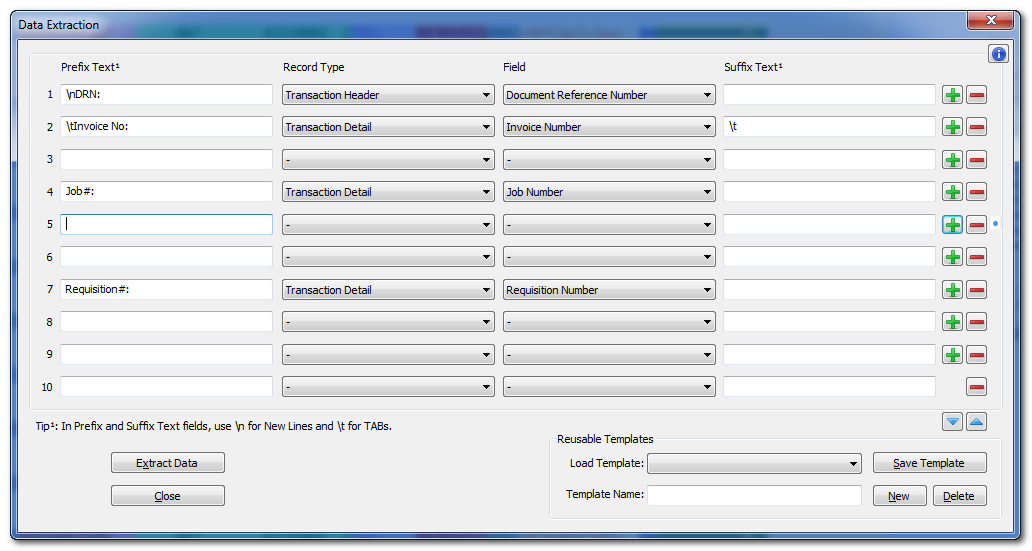
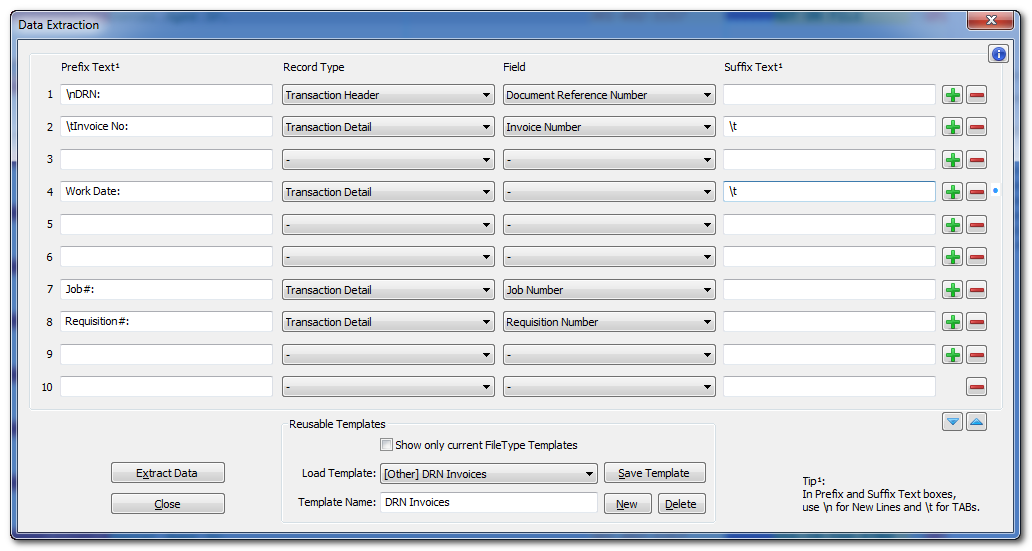
Fine tuned visualizeFile process for npp launch, doc load, doc tab switch, plugin dock tab switch, ADFT checked state

diff --git a/src/Dialogs/VisualizerPanel.cpp b/src/Dialogs/VisualizerPanel.cpp
@@ -15,7 +15,7 @@ INT_PTR CALLBACK VisualizerPanel::run_dlgProc(UINT message, WPARAM wParam, LPARA
             case IDC_VIZPANEL_FILETYPE_SELECT:
                switch HIWORD(wParam) {
                   case CBN_SELCHANGE:
-                     visualizeFile(L"", FALSE);
+                     visualizeFile(L"", FALSE, FALSE, FALSE);
                      break;
                }
                break;
@@ -55,7 +55,7 @@ INT_PTR CALLBACK VisualizerPanel::run_dlgProc(UINT message, WPARAM wParam, LPARA
                break;
 
             case IDC_VIZPANEL_AUTO_DETECT_FT:
-               setAutoDetectFileType();
+               setADFTCheckbox();
                break;
 
             case IDC_VIZPANEL_CARET_FRAMED:
@@ -86,6 +86,8 @@ INT_PTR CALLBACK VisualizerPanel::run_dlgProc(UINT message, WPARAM wParam, LPARA
 
       case WM_SHOWWINDOW:
          Utils::checkMenuItem(MI_FWVIZ_PANEL, wParam);
+         showCaretFramedState(_configIO.getCaretFramed());
+         visualizeFile(L"", TRUE, TRUE, TRUE);
          break;
 
       case WM_SIZE:
@@ -145,11 +147,10 @@ void VisualizerPanel::display(bool toShow) {
    hFieldInfo = GetDlgItem(_hSelf, IDC_VIZPANEL_FIELD_INFO);
 
    if (toShow) {
-      syncListFileTypes();
-      syncListThemes();
       CheckDlgButton(_hSelf, IDC_VIZPANEL_AUTO_DETECT_FT,
          _configIO.getAutoDetectFileType() ? BST_CHECKED : BST_UNCHECKED);
       showCaretFramedState(_configIO.getCaretFramed());
+      visualizeFile(L"", TRUE, TRUE, TRUE);
       SetFocus(hFTList);
    }
 }
@@ -243,15 +244,25 @@ void VisualizerPanel::enableThemeList(bool enable) {
    EnableWindow(GetDlgItem(_hSelf, IDC_VIZPANEL_THEME_SELECT), enable);
 }
 
-void VisualizerPanel::visualizeFile(wstring fileType, bool syncFileTypesList) {
+void VisualizerPanel::visualizeFile(wstring fileType, bool ab_cachedFT, bool autoFT, bool syncFT) {
    HWND hScintilla{ getCurrentScintilla() };
    if (!hScintilla) return;
 
-   if (fileType.length() < 1) {
-      wchar_t fDesc[MAX_PATH]{};
+   if (ab_cachedFT) {
+      getDocFileType(hScintilla, fileType);
+      _configIO.setCurrentConfigFile(fileType);
+   }
 
-      SendMessage(hFTList, WM_GETTEXT, MAX_PATH, (LPARAM)fDesc);
-      fileType = mapFileDescToType[fDesc];
+   if (fileType.length() < 1) {
+      if (autoFT) {
+         if (_configIO.getAutoDetectFileType())
+            detectFileType(hScintilla, fileType);
+      }
+      else {
+         wchar_t fDesc[MAX_PATH]{};
+         SendMessage(hFTList, WM_GETTEXT, MAX_PATH, (LPARAM)fDesc);
+         fileType = mapFileDescToType[fDesc];
+      }
    }
 
    if (fileType.length() < 2) {
@@ -261,7 +272,7 @@ void VisualizerPanel::visualizeFile(wstring fileType, bool syncFileTypesList) {
 
    clearVisualize(FALSE);
    setDocFileType(hScintilla, fileType);
-   if (syncFileTypesList) syncListFileTypes();
+   if (syncFT) syncListFileTypes();
 
    setDocTheme(hScintilla, fileType, L"");
    syncListThemes();
@@ -990,23 +1001,15 @@ void VisualizerPanel::setDocTheme(HWND hScintilla, wstring fileType, wstring the
       (LPARAM)_configIO.WideToNarrow(theme).c_str());
 }
 
-void VisualizerPanel::setAutoDetectFileType() {
+void VisualizerPanel::setADFTCheckbox() {
    bool checked{ IsDlgButtonChecked(_hSelf, IDC_VIZPANEL_AUTO_DETECT_FT) == BST_CHECKED };
 
    _configIO.setAutoDetectFileType(checked);
-   if (checked) {
-      syncListFileTypes();
-      visualizeFile(L"", FALSE);
-   }
+   if (checked) visualizeFile(L"", FALSE, TRUE, TRUE);
 }
 
 void VisualizerPanel::onBufferActivate() {
-   if (isVisible()) {
-      syncListFileTypes();
-      syncListThemes();
-      loadUsedThemes();
-      applyStyles();
-   }
+   if (isVisible()) visualizeFile(L"", TRUE, TRUE, TRUE);
 }
 
 void VisualizerPanel::setFocusOnEditor() {

diff --git a/src/Dialogs/DataExtractDialog.cpp b/src/Dialogs/DataExtractDialog.cpp
@@ -181,6 +181,7 @@ INT_PTR CALLBACK DataExtractDialog::run_dlgProc(UINT message, WPARAM wParam, LPA
 
             case IDC_DAT_EXT_TEMPLATE_CURR_ONLY:
                loadTemplatesList();
+               loadTemplate();
                break;
 
             case IDC_DAT_EXT_TEMPLATE_LIST:
@@ -539,8 +540,7 @@ int DataExtractDialog::loadTemplatesList(){
 }
 
 void DataExtractDialog::loadTemplate() {
-   bool otherFlag{};
-   wstring templateName{ getSelectedTemplate(otherFlag) };
+   wstring templateName{ getSelectedTemplate() };
    bool validTemplate{ templateName.length() > 0 };
 
    SetDlgItemText(_hSelf, IDC_DAT_EXT_TEMPLATE_NAME, templateName.c_str());
@@ -581,7 +581,7 @@ void DataExtractDialog::loadTemplate() {
    }
 }
 
-wstring DataExtractDialog::getSelectedTemplate(bool& otherFlag) {
+wstring DataExtractDialog::getSelectedTemplate() {
    bool validTemplate{ SendMessage(hTemplatesList, CB_GETCURSEL, NULL, NULL) > 0 };
    wstring templateName{};
 
@@ -592,9 +592,8 @@ wstring DataExtractDialog::getSelectedTemplate(bool& otherFlag) {
       templateName = wstring{ tName };
 
       size_t otherLen = wstring{ DATA_EXTRACT_TEMPLATE_OTHER }.length();
-      otherFlag = (templateName.substr(0, otherLen) == DATA_EXTRACT_TEMPLATE_OTHER);
 
-      if (otherFlag)
+      if (templateName.substr(0, otherLen) == DATA_EXTRACT_TEMPLATE_OTHER)
          templateName = templateName.substr(otherLen);
    }
 

diff --git a/src/Dialogs/VisualizerPanel.h b/src/Dialogs/VisualizerPanel.h
@@ -49,7 +49,7 @@ public :
    void loadListThemes();
    void onBufferActivate();
    void renderCurrentPage();
-   void visualizeFile(wstring fileType, bool syncFileTypesList);
+   void visualizeFile(wstring fileType, bool ab_cachedFT, bool autoFT, bool syncFT);
    void jumpToField(const wstring fileType, const int recordIndex, const int fieldIdx);
 
 protected :
@@ -85,7 +85,7 @@ protected :
    bool getDocTheme(PSCIFUNC_T sci_func, void* sci_ptr, wstring& theme);
    void setDocFileType(HWND hScintilla, wstring fileType);
    void setDocTheme(HWND hScintilla, wstring fileType, wstring theme);
-   void setAutoDetectFileType();
+   void setADFTCheckbox();
 
    void enableThemeList(bool enable);
    void syncListFileTypes();

diff --git a/src/SubmenuManager.cpp b/src/SubmenuManager.cpp
@@ -65,7 +65,7 @@ void SubmenuManager::loadSampleFile(WPARAM wParam, LPARAM) {
    nppMessage(NPPM_DOOPEN, NULL, (LPARAM)sampleFile);
    ShowVisualizerPanel(TRUE);
 
-   _vizPanel.visualizeFile(gSampleFiles[cmdID].file_type, TRUE);
+   _vizPanel.visualizeFile(gSampleFiles[cmdID].file_type, FALSE, FALSE, TRUE);
 }
 
 void SubmenuManager::initSamplesPopup(HMENU hPopup) {

diff --git a/src/Dialogs/DataExtractDialog.h b/src/Dialogs/DataExtractDialog.h
@@ -52,7 +52,7 @@ protected:
 
    int loadTemplatesList();
    void loadTemplate();
-   wstring getSelectedTemplate(bool& other);
+   wstring getSelectedTemplate();
    wstring getTemplateName();
    void enableSaveTemplate();
    void enableDeleteTemplate();

diff --git a/docs/data_extract_dialog.md b/docs/data_extract_dialog.md
@@ -11,8 +11,13 @@ The data extraction feature can be especially useful with mixed-record fixed-wid
 
 In the pictured sample:
 * The `\n` in the _Prefix_ of the first line is providing a blank line spacing between DRN-Invoice groups in the output (see below).
-* Line Items 3, 5 & 6 were ignored during Data Extraction processing since the _Record Type_ and _Field_ edits were blanks.
+* Line Items 3, 5 & 6 were ignored during Data Extraction processing since the _Record Type_ and _Field_ boxes were blanks.
+* Line Item 4 was ignored during Data Extraction processing since the _Field_ box was blank.
 * The `\t` in the _Suffix_ for the _Invoice Number_ line item could also have been, alternatively, specified at the start of the _Prefix_ for the _Job Number_ line item, with no difference in the resultant output data.
+* Since the _Show only current FileType Templates_ box was unchecked, all templates from all different FileTypes stored in the `Extracts.ini` configuration file were listed in the _Load Template_ dropdown. The templates from other FileTypes are listed with _[Other]_ prefix. Uncheck this box to:
+   * Load templates from closely related file types
+   * Load templates orphaned due to changes in name or order of FileTypes in the FileType metadata editor.
+* In Line Item 4, the Work Date field was specified in a template from a slightly different FileType. The position for the _Work date_ field from that other FileType was beyond the defined set of fields for the _Treasury IPAC File_ format. So the _Field_ edit for that line item did not load from the template.
 
 ### Corresponding Output
 ![Sample_Data_Output](https://raw.githubusercontent.com/shriprem/FWDataViz/DataExtractFeature/images/data_extract_output.png)
